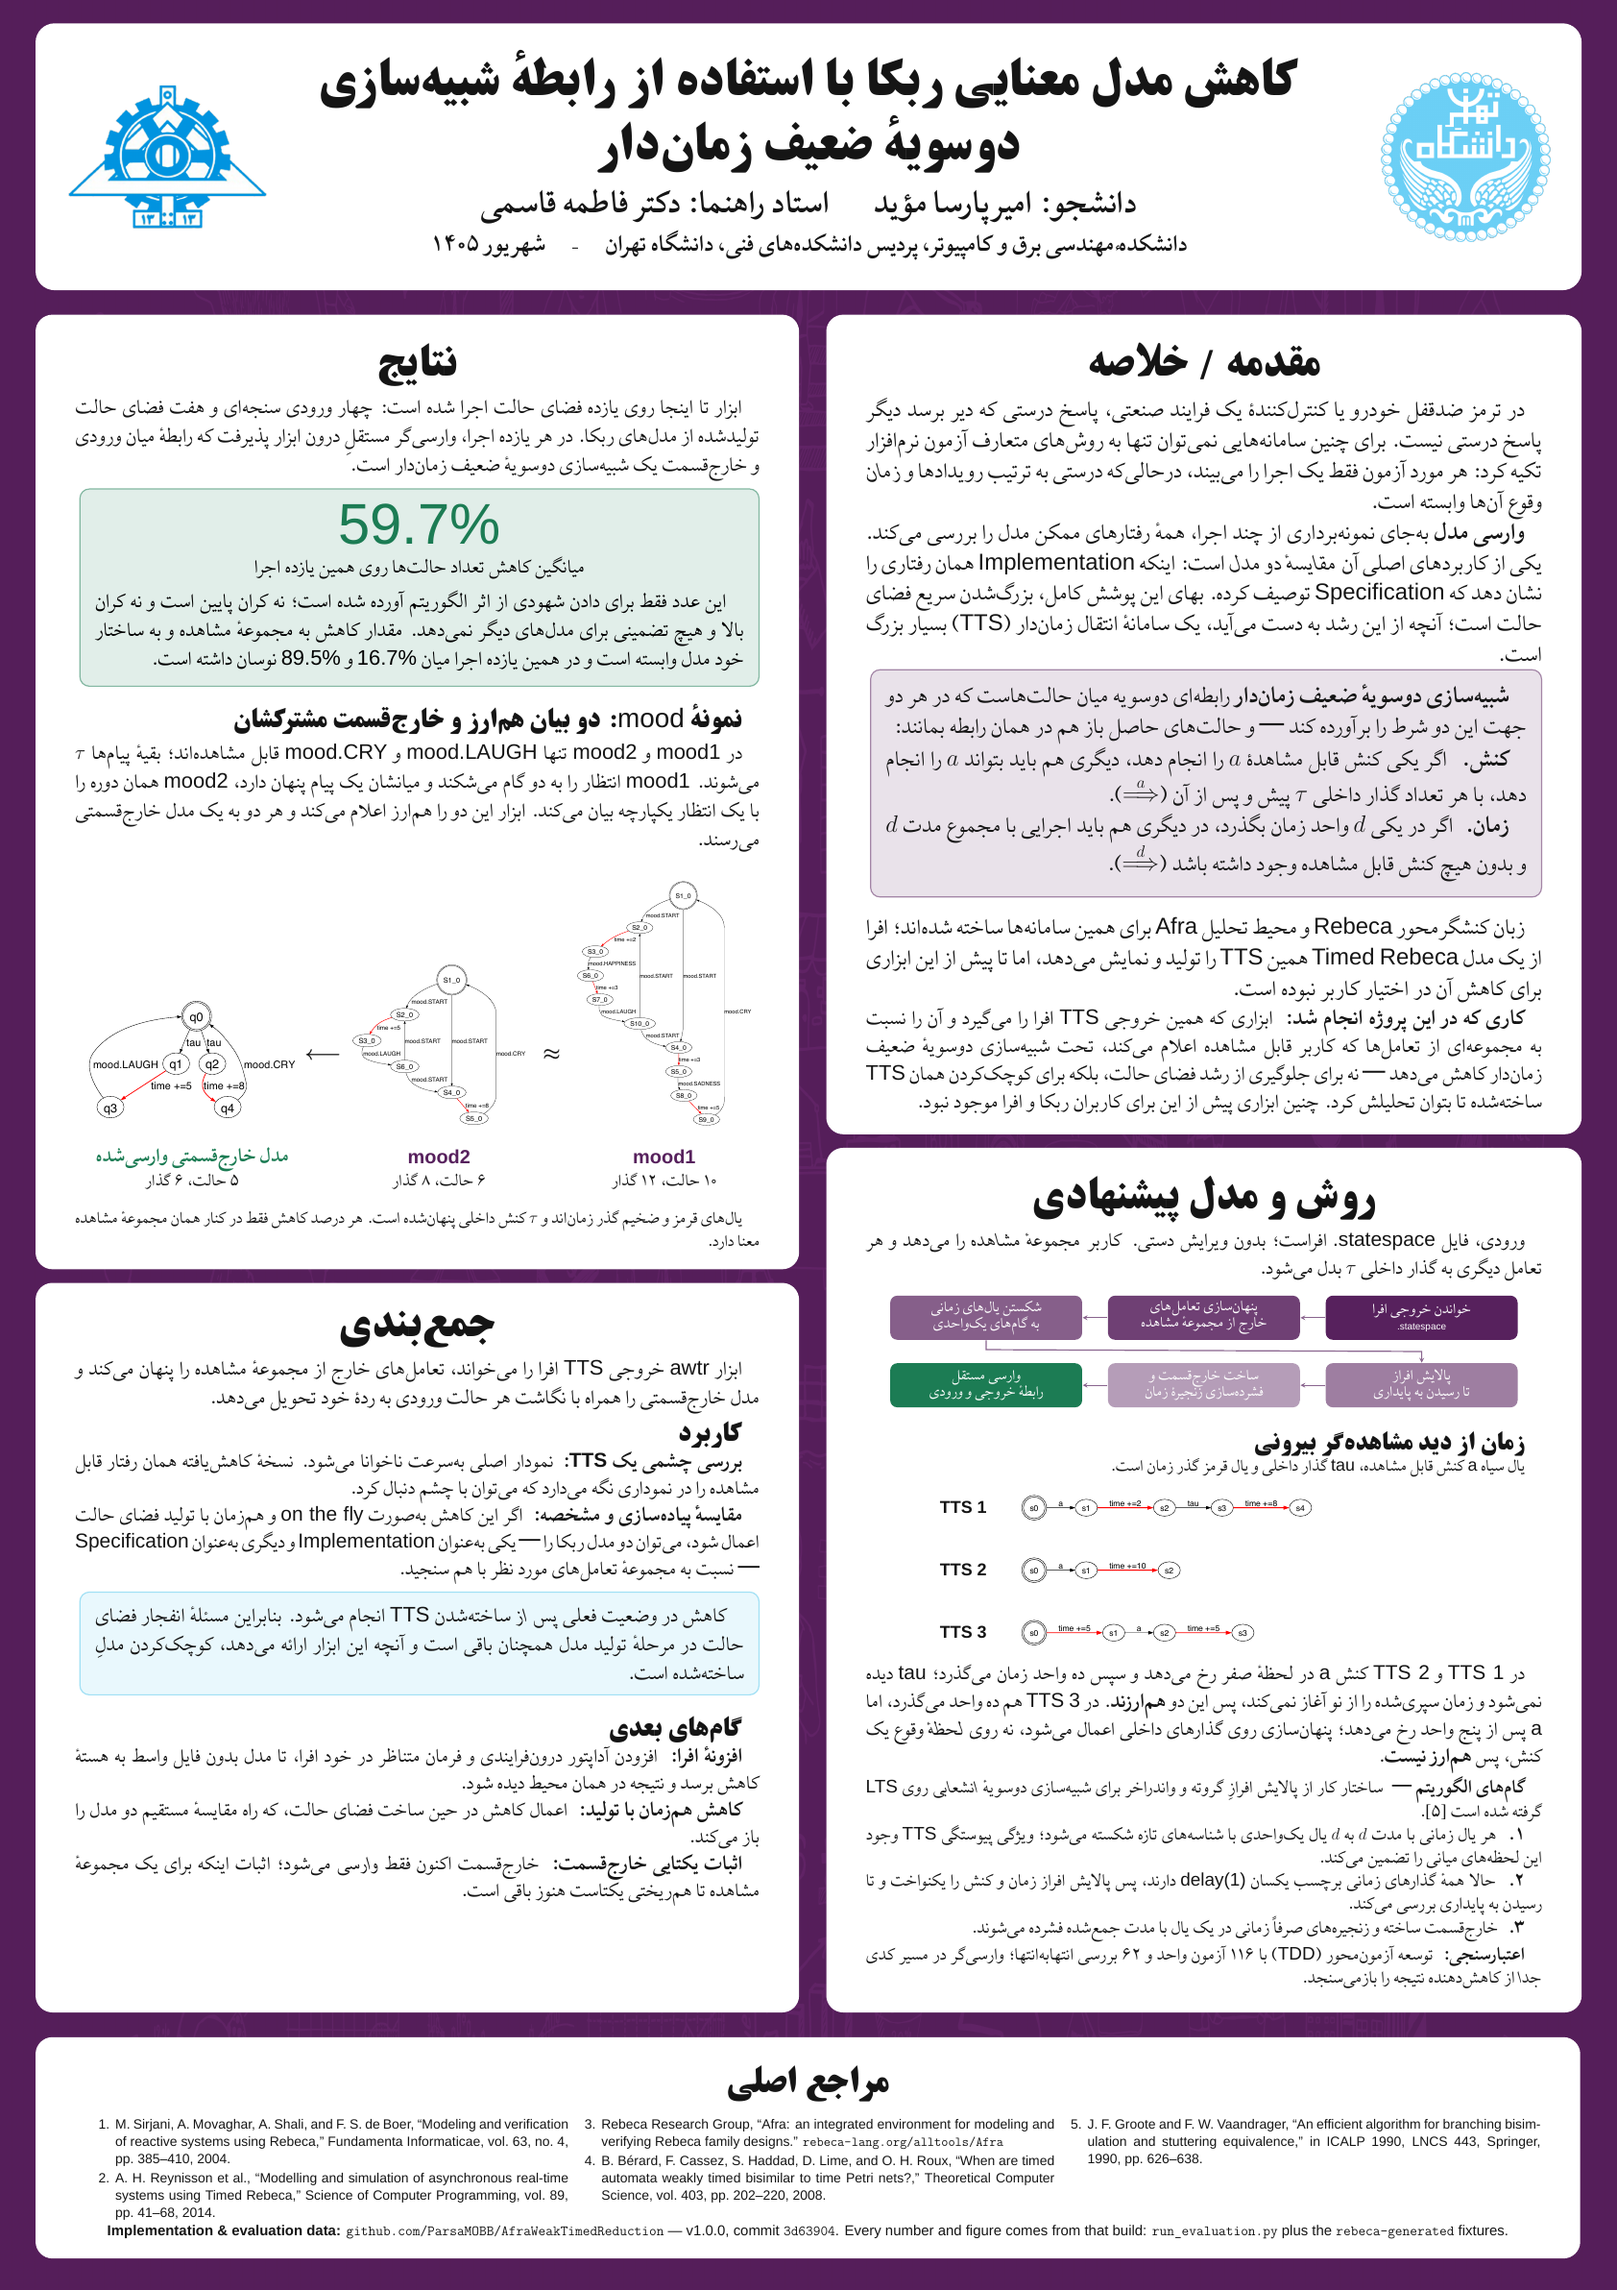
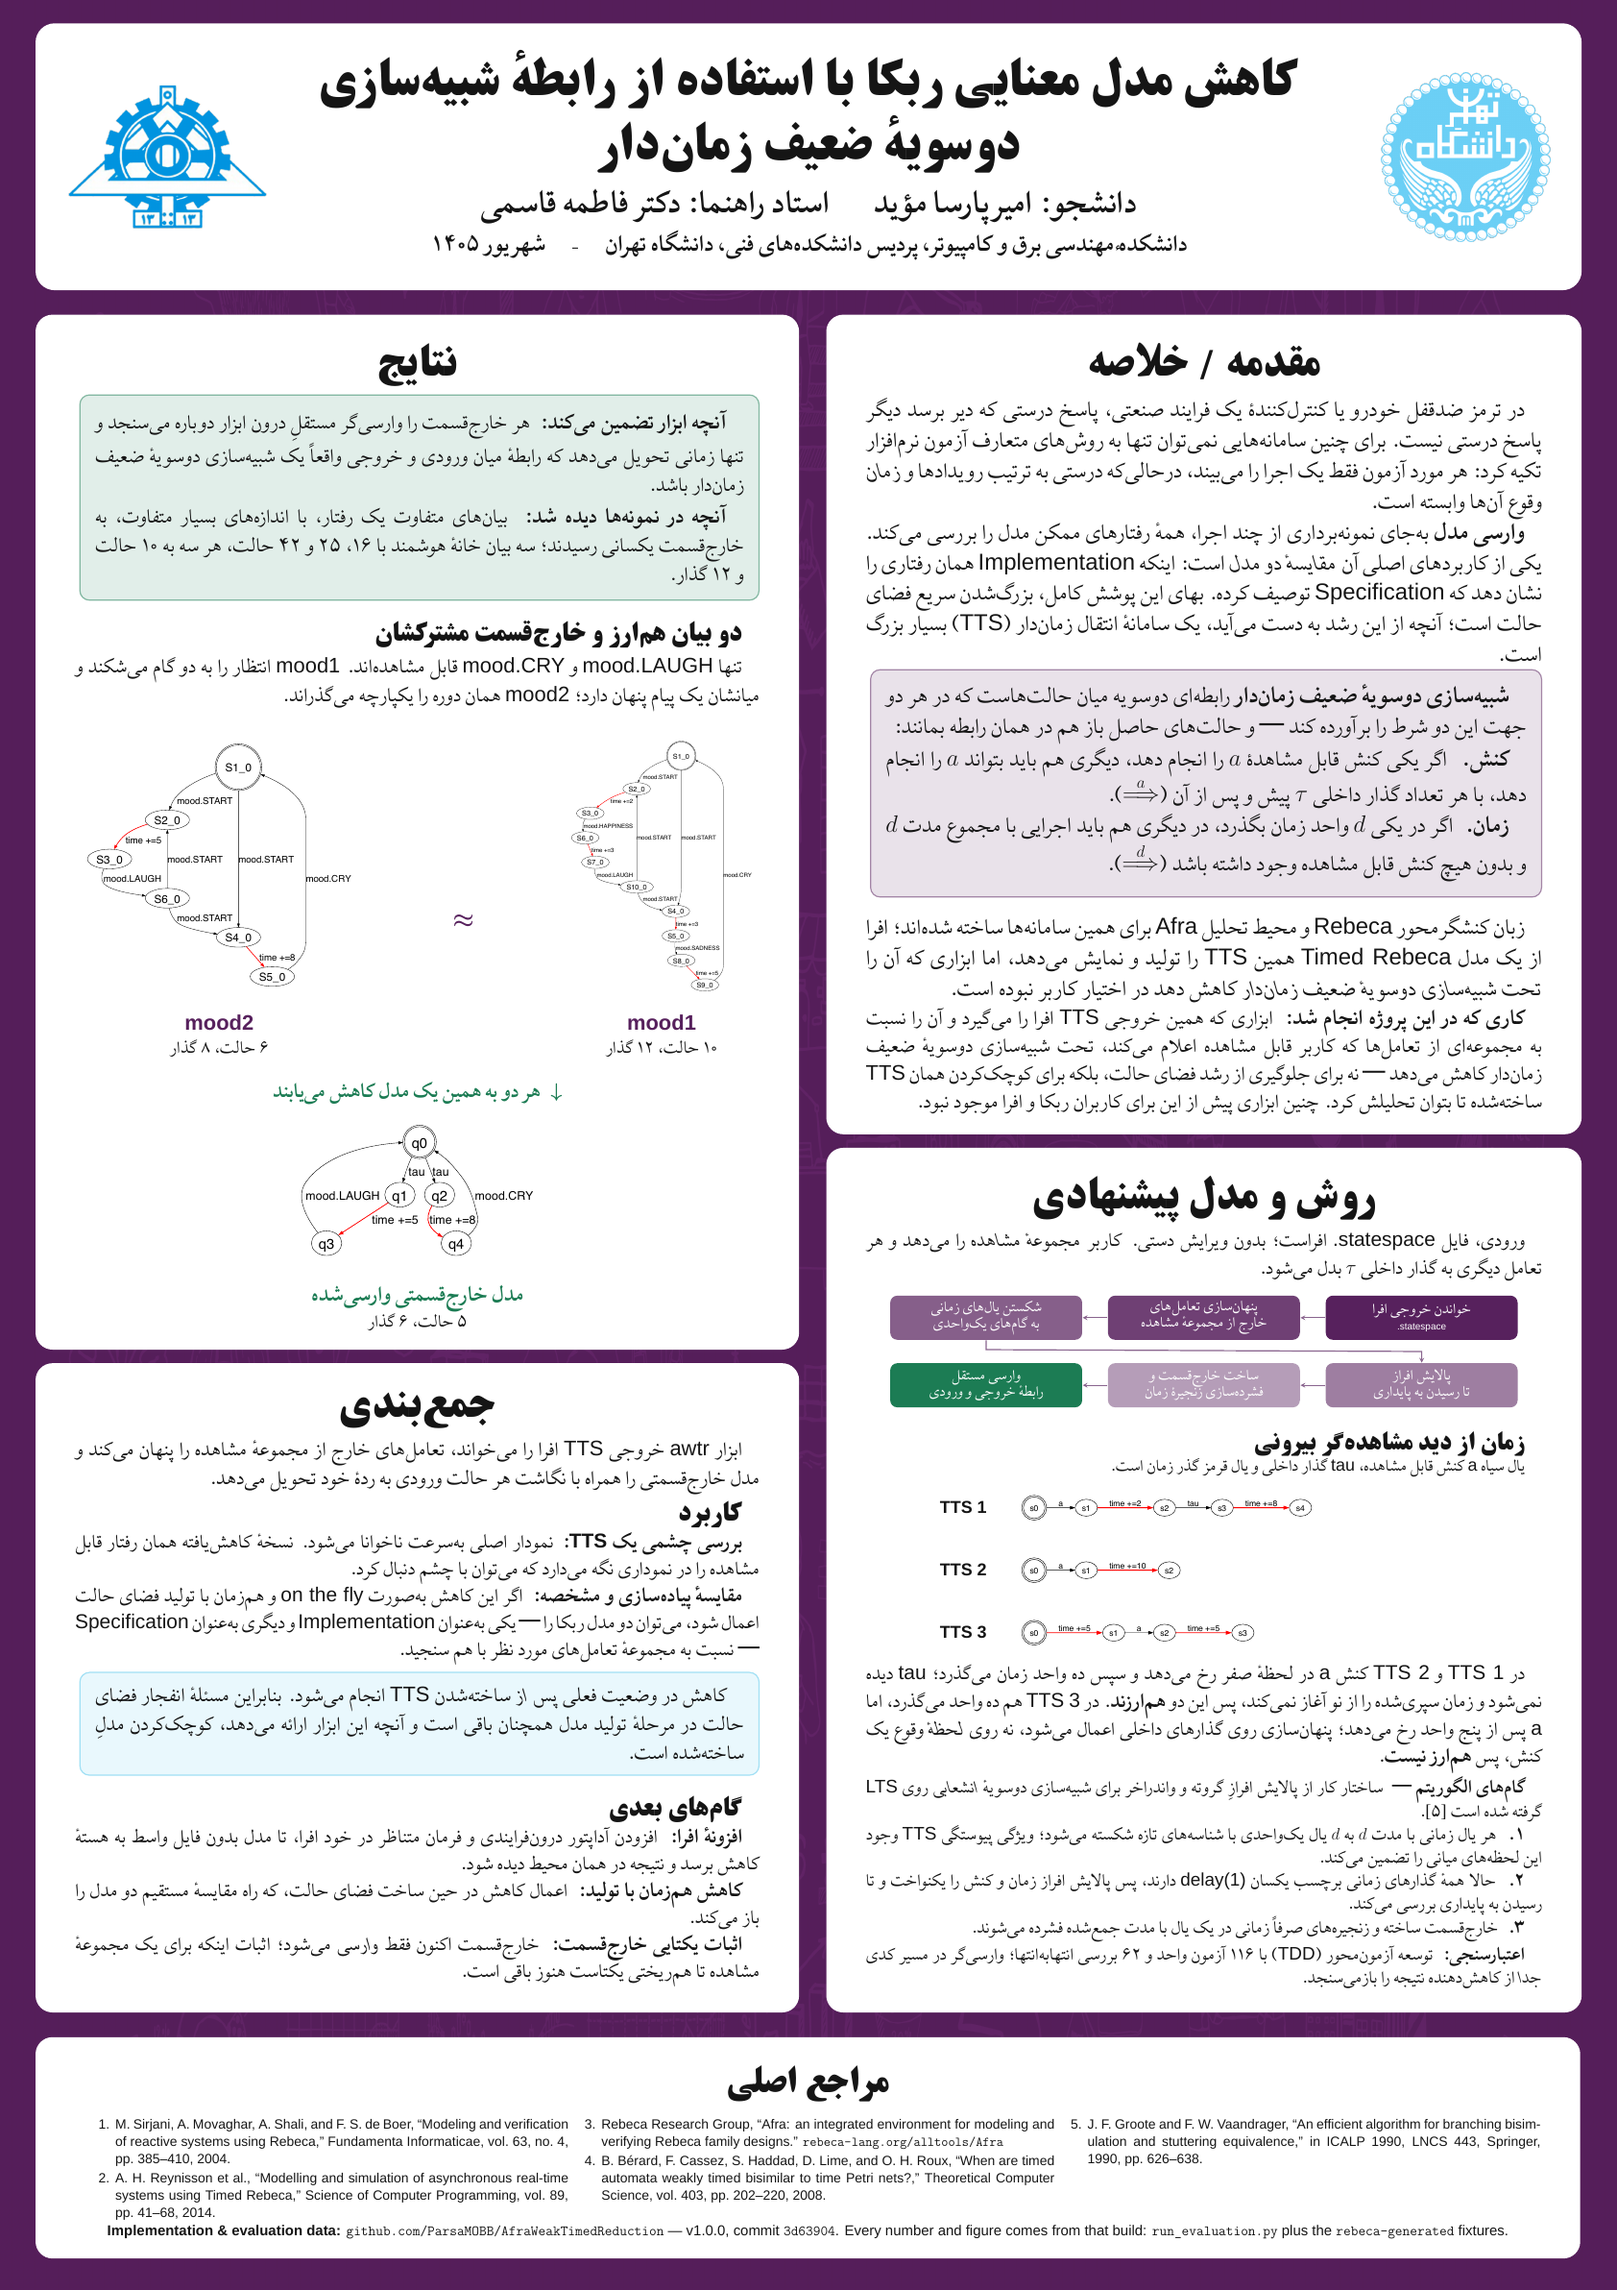
Drop the average, give the mood figures the room instead
A mean reduction ratio over the models that happen to have been run is not a
property of the algorithm. It depends on the observable set and on how the
model was written, it is bounded neither below nor above, and a reader cannot
do anything with it. The callout now states the two things that are actually
defensible: the tool re-checks every quotient it emits with an independent
verifier, and differently sized expressions of one behaviour landed on one
quotient (the three SmartHome expressions, 16/25/42 states, all reaching
10/12). Run counts are gone with it -- eleven is not a result either.

That, plus the opening paragraph the panel did not need and an edge legend the
method panel already gives, buys about 9cm of column. It goes to the figures,
which are the point of the panel: mood1 and mood2 move to a row of their own
and the quotient gets the full width below them, so mood2 is 51% wider than
before and the quotient 12%. The graphs are re-rendered at larger type as
well. The section heading loses its "نمونهٔ mood" prefix; the figures say
which models these are.

The introduction claimed no tool existed to reduce Afra's TTS. What did not
exist is one that reduces it under weak timed bisimulation, which is what the
sentence says now.

Claude-Session: https://claude.ai/code/session_01BTkw57E3v1ssT31bvLnphd

diff --git a/sections/results.tex b/sections/results.tex
@@ -1,85 +1,71 @@
 % ---------------------------------------------------------------------------
 % Results panel.  Every number here comes from the implementation repository
-% (tool 1.0.0): the four benchmark rows of evaluation/results.csv and the seven
+% (tool 1.0.0): the benchmark rows of evaluation/results.csv and the
 % RMC-generated fixtures under src/test/resources/rebeca-generated.  Nothing is
 % retyped from prose.
 %
-% The mean below is the unweighted mean of the eleven per-run state-reduction
-% ratios (16.7, 30.0, 37.5, 50.0, 60.0, 66.7, 69.6, 71.4, 76.2, 89.5, 89.5).
+% The panel deliberately reports no average reduction ratio.  A mean over the
+% models that happen to have been run is not a property of the algorithm: the
+% ratio depends on the observable set and on how the model was written, and it
+% is bounded neither below nor above.  What is worth claiming is what the tool
+% guarantees (every quotient independently re-checked) and what the runs
+% actually showed (differently sized expressions of one behaviour landing on
+% one quotient).
 % ---------------------------------------------------------------------------
 \newcommand{\ResultsContent}{%
 
-ابزار تا اینجا روی یازده فضای حالت اجرا شده است: چهار ورودی سنجهای و هفت
-فضای حالت تولیدشده از مدلهای ربکا. در هر یازده اجرا، وارسیگر مستقلِ درون
-ابزار پذیرفت که رابطهٔ میان ورودی و خارجقسمت یک شبیهسازی دوسویهٔ ضعیف
-زماندار است.
-
+\vspace{-.30cm}
 \PosterHighlight[PosterGreen]{%
-\centering
-{\postertitlefont\fontsize{60}{66}\selectfont\color{PosterGreen}\pct{59.7}\par}
-\vspace{.10cm}
-{\fontsize{21}{27}\selectfont میانگین کاهش تعداد حالتها روی همین یازده اجرا\par}
-\vspace{.22cm}
-\justifying
-این عدد فقط برای دادن شهودی از اثر الگوریتم آورده شده است؛ نه کران پایین است و
-نه کران بالا و هیچ تضمینی برای مدلهای دیگر نمیدهد. مقدار کاهش به مجموعهٔ
-مشاهده و به ساختار خود مدل وابسته است و در همین یازده اجرا میان \pct{16.7} و
-\pct{89.5} نوسان داشته است.}
+\PosterLead{آنچه ابزار تضمین میکند:} هر خارجقسمت را وارسیگر مستقلِ درون ابزار
+دوباره میسنجد و تنها زمانی تحویل میدهد که رابطهٔ میان ورودی و خروجی واقعاً یک
+شبیهسازی دوسویهٔ ضعیف زماندار باشد.
 
-{\postertitlefont\fontsize{28}{36}\selectfont نمونهٔ \code{mood}: دو بیان
-همارز و خارجقسمت مشترکشان\par}
+\vspace{.12cm}
+\PosterLead{آنچه در نمونهها دیده شد:} بیانهای متفاوت یک رفتار، با اندازههای
+بسیار متفاوت، به خارجقسمت یکسانی رسیدند؛ سه بیان خانهٔ هوشمند با ۱۶، ۲۵ و ۴۲
+حالت، هر سه به ۱۰ حالت و ۱۲ گذار.}
+
+{\postertitlefont\fontsize{28}{36}\selectfont
+دو بیان همارز و خارجقسمت مشترکشان\par}
 \vspace{.12cm}
 
-در \code{mood1} و \code{mood2} تنها \code{mood.LAUGH} و \code{mood.CRY} قابل
-مشاهدهاند؛ بقیهٔ پیامها $\tau$ میشوند. \code{mood1} انتظار را به دو گام
-میشکند و میانشان یک پیام پنهان دارد، \code{mood2} همان دوره را با یک انتظار
-یکپارچه بیان میکند. ابزار این دو را همارز اعلام میکند و هر دو به یک مدل
-خارجقسمتی میرسند.
+تنها \code{mood.LAUGH} و \code{mood.CRY} قابل مشاهدهاند. \code{mood1} انتظار را
+به دو گام میشکند و میانشان یک پیام پنهان دارد؛ \code{mood2} همان دوره را یکپارچه
+میگذراند.
 
-\vspace{.30cm}
+\vspace{.22cm}
 \begin{center}
-\begin{minipage}[b]{7.0cm}
+\begin{minipage}[b]{7.2cm}
   \centering
-  \includegraphics[width=7.0cm]{assets/figures/mood1.pdf}\par
-  \vspace{.22cm}
-  {\fontsize{20}{25}\selectfont\color{PosterPurple}\bfseries\code{mood1}\par}
-  {\fontsize{18}{23}\selectfont ۱۰ حالت، ۱۲ گذار\par}
+  \includegraphics[width=7.2cm]{assets/figures/mood1.pdf}\par
+  \vspace{.20cm}
+  {\fontsize{22}{27}\selectfont\color{PosterPurple}\bfseries\code{mood1}\par}
+  {\fontsize{19}{24}\selectfont ۱۰ حالت، ۱۲ گذار\par}
 \end{minipage}%
 \hfill
-\begin{minipage}[b]{1.1cm}
+\begin{minipage}[b]{1.2cm}
   \centering
-  \vspace{3.6cm}
-  {\color{PosterPurple}$\boldsymbol{\approx}$}\par
+  {\fontsize{34}{40}\selectfont\color{PosterPurple}$\boldsymbol{\approx}$\par}
   \vspace{4.6cm}
 \end{minipage}%
 \hfill
-\begin{minipage}[b]{7.0cm}
+\begin{minipage}[b]{10.6cm}
   \centering
-  \includegraphics[width=7.0cm]{assets/figures/mood2.pdf}\par
-  \vspace{.22cm}
-  {\fontsize{20}{25}\selectfont\color{PosterPurple}\bfseries\code{mood2}\par}
-  {\fontsize{18}{23}\selectfont ۶ حالت، ۸ گذار\par}
-\end{minipage}%
-\hfill
-\begin{minipage}[b]{1.1cm}
-  \centering
-  \vspace{2.9cm}
-  {\color{PosterGreen}$\boldsymbol{\longleftarrow}$}\par
-  \vspace{4.6cm}
-\end{minipage}%
-\hfill
-\begin{minipage}[b]{8.6cm}
-  \centering
-  \includegraphics[width=8.6cm]{assets/figures/mood-quotient.pdf}\par
-  \vspace{.22cm}
-  {\fontsize{20}{25}\selectfont\color{PosterGreen}\bfseries
-   مدل خارجقسمتی وارسیشده\par}
-  {\fontsize{18}{23}\selectfont ۵ حالت، ۶ گذار\par}
+  \includegraphics[width=10.6cm]{assets/figures/mood2.pdf}\par
+  \vspace{.20cm}
+  {\fontsize{22}{27}\selectfont\color{PosterPurple}\bfseries\code{mood2}\par}
+  {\fontsize{19}{24}\selectfont ۶ حالت، ۸ گذار\par}
 \end{minipage}
 \end{center}
 
-\vspace{.10cm}
-{\fontsize{18}{24}\selectfont
-یالهای قرمز و ضخیم گذر زماناند و $\tau$ کنش داخلی پنهانشده است. هر درصد کاهش
-فقط در کنار همان مجموعهٔ مشاهده معنا دارد.\par}
+\vspace{.22cm}
+{\centering
+{\fontsize{21}{27}\selectfont\color{PosterGreen}\bfseries
+ $\boldsymbol{\downarrow}$\; هر دو به همین یک مدل کاهش مییابند\par}
+\vspace{.18cm}
+\includegraphics[width=9.6cm]{assets/figures/mood-quotient.pdf}\par
+\vspace{.20cm}
+{\fontsize{22}{27}\selectfont\color{PosterGreen}\bfseries
+ مدل خارجقسمتی وارسیشده\par}
+{\fontsize{19}{24}\selectfont ۵ حالت، ۶ گذار\par}}
 }

diff --git a/sections/introduction.tex b/sections/introduction.tex
@@ -26,7 +26,8 @@
 
 زبان کنشگرمحور \code{Rebeca} و محیط تحلیل \code{Afra} برای همین سامانهها ساخته
 شدهاند؛ افرا از یک مدل \code{Timed Rebeca} همین \code{TTS} را تولید و نمایش
-میدهد، اما تا پیش از این ابزاری برای کاهش آن در اختیار کاربر نبوده است.
+میدهد، اما ابزاری که آن را \emph{تحت شبیهسازی دوسویهٔ ضعیف زماندار} کاهش
+دهد در اختیار کاربر نبوده است.
 
 \vspace{.05cm}
 {\fontsize{22}{29}\selectfont
